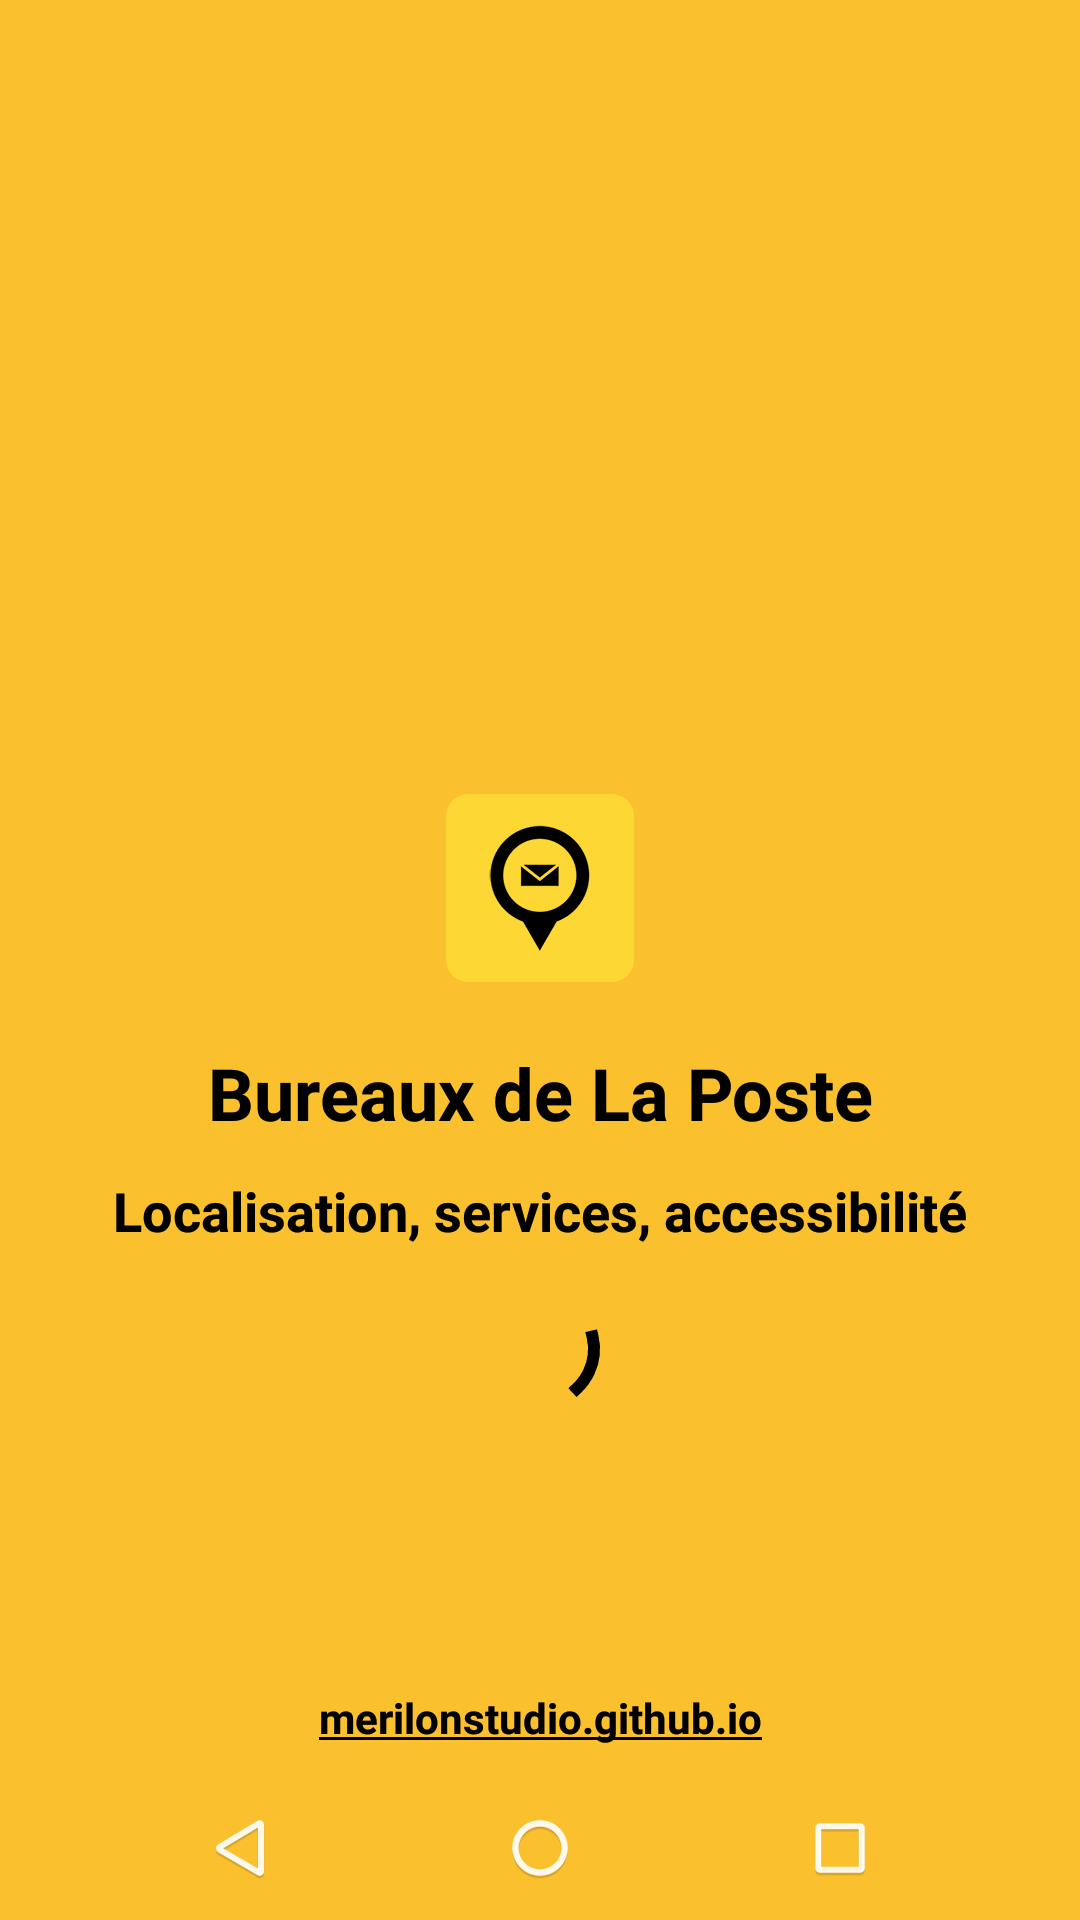
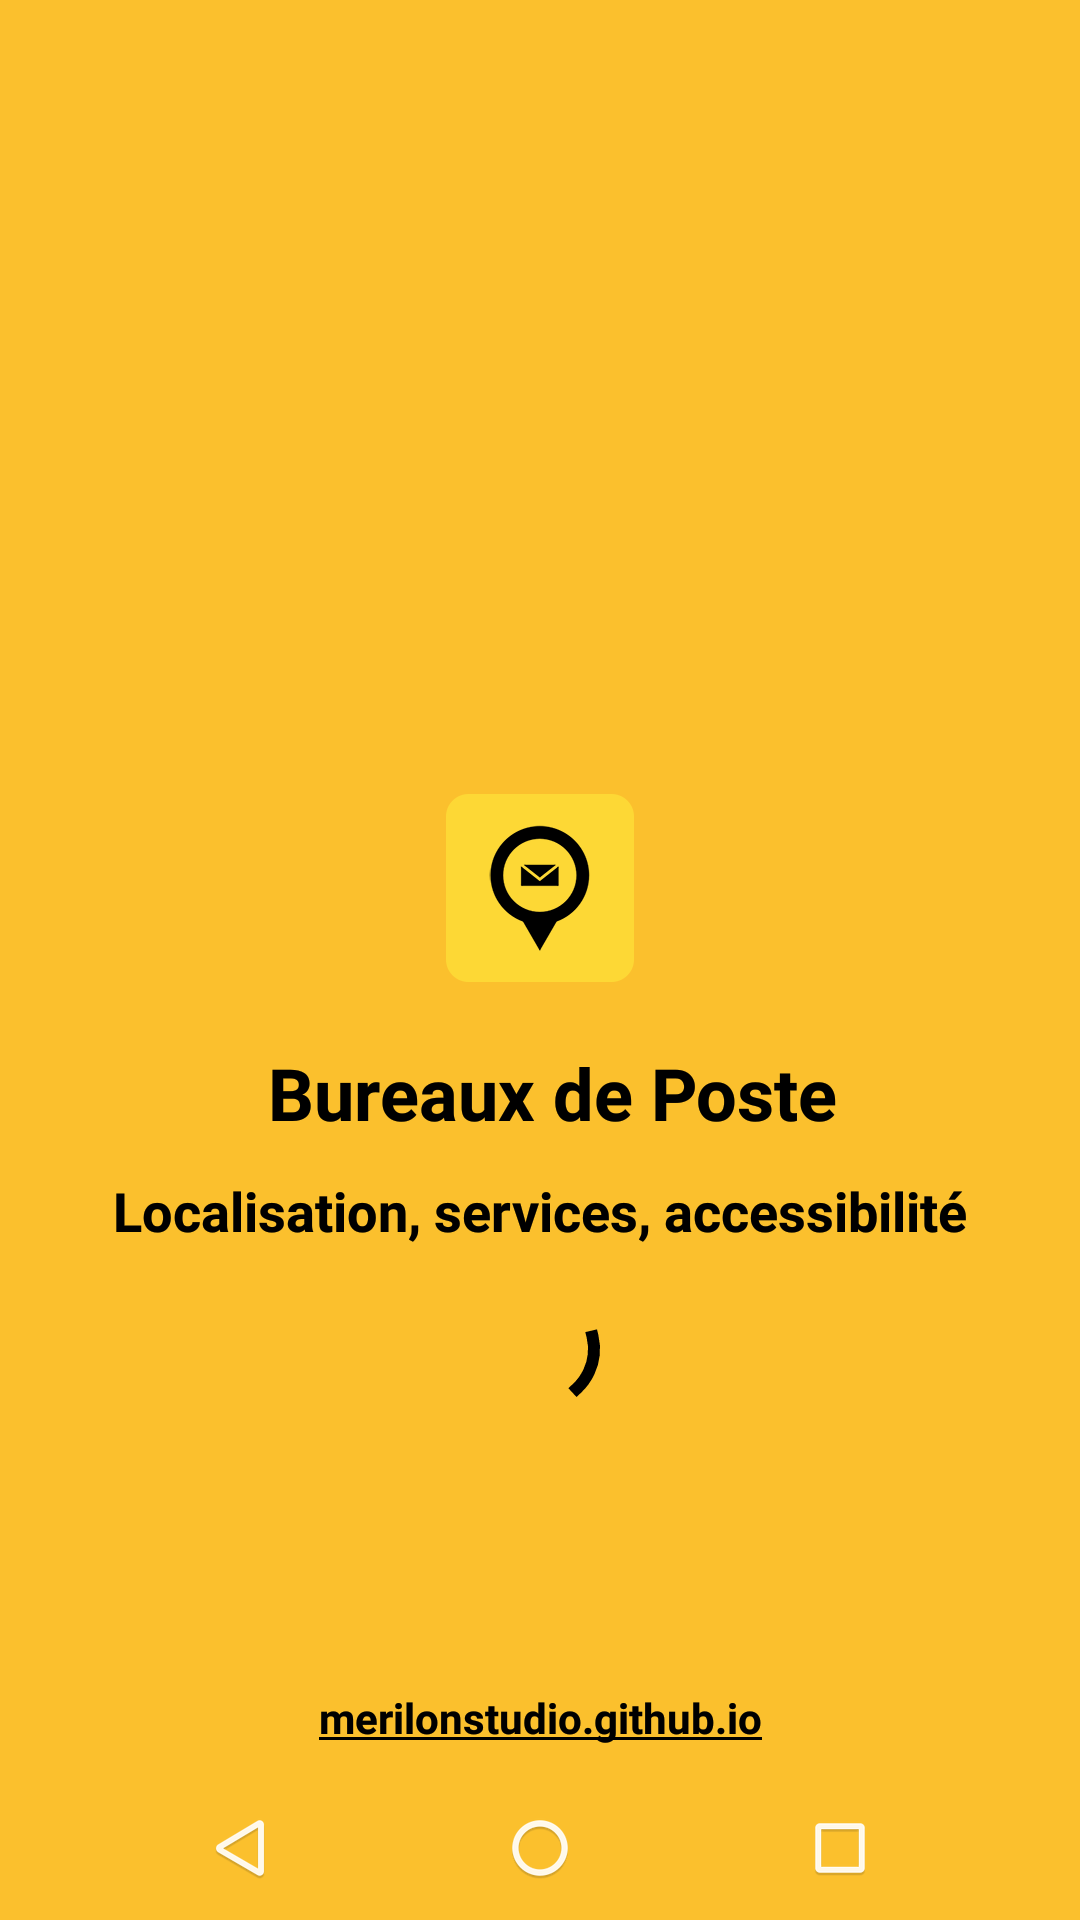
bdp name change

Changed region(s): [[0.1833, 0.5312, 0.825, 0.5938]]

diff --git a/bureauxdelaposte.html b/bureauxdelaposte.html
@@ -2,7 +2,7 @@
 <html lang="en">
 <head>
 <meta charset="utf-8">
-<title data-locale-text="bdp.bdptitle">Bureaux de La Poste - Localisation, services et accessibilité</title>
+<title data-locale-text="bdp.bdptitle">Bureaux de Poste - Localisation, services et accessibilité</title>
 <meta name="viewport" content="width=device-width, initial-scale=1, shrink-to-fit=no">
 <meta name="theme-color" content="#56bc94">
 <meta name="robots" content="index, follow">
@@ -24,7 +24,7 @@
             <div class="container">
                 <div class="row">
                     <div class="overview col-md-8 col-sm-8 col-xs-12">
-                        <h2 data-locale-text="bdp.bdpintro" class="title" itemprop="name">Bureaux de La Poste - Localisation, services et accessibilité</h2>
+                        <h2 data-locale-text="bdp.bdpintro" class="title" itemprop="name">Bureaux de Poste - Localisation, services et accessibilité</h2>
                         <ul class="summary">
                             <li data-locale-text="bdp.bdp1" itemprop="featureList">Recherchez les bureaux de poste par commune ou à proximité</li>
                             <li data-locale-text="bdp.bdp2" itemprop="featureList">Triez suivant les services présents ou critères d'accessibilité</li>
